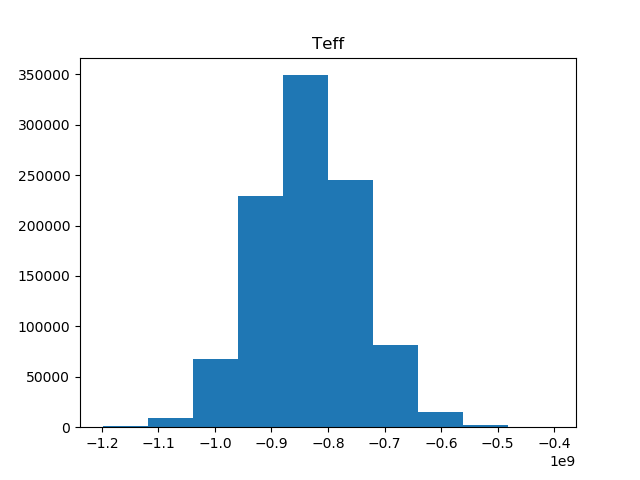
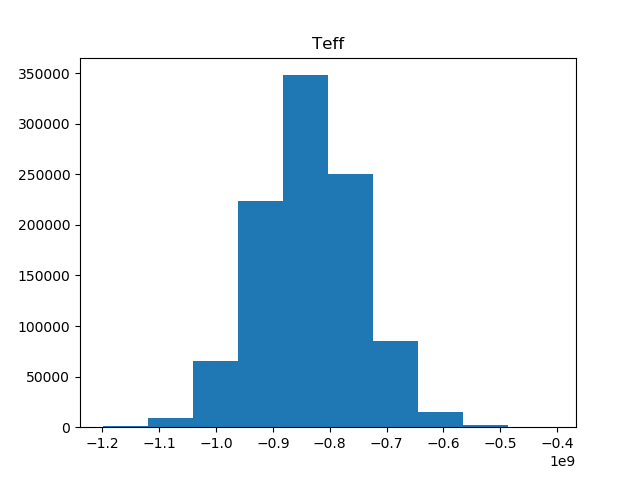
added code that fits for kSZ but I'm getting a nonzero bulk kSZ and zero tSZ

diff --git a/emceefitbulkkSZ.py b/emceefitbulkkSZ.py
@@ -86,12 +86,12 @@ def f_nu(nu):
 zavg = 0.36315244
 
 TCMB = 2.7255
-def yflux(fghz,Yin,Teff):
-    return TCMB*gfuncrel(fghz*1e9,Teff)*Yin
+def yflux(fghz,Yin):
+    return TCMB*f_nu(fghz)*Yin
 def dflux(fghz,Din):
     return bdust(fghz,zavg)*Din
-def Sflux(fghz,Yin,Din,Teff):
-    return yflux(fghz,Yin,Teff)+dflux(fghz,Din)+Yin * gfuncrel(fghz*1e9,Teff)
+def Sflux(fghz,Yin,Din,dT):
+    return yflux(fghz,Yin)+dflux(fghz,Din)+dT
 
 #from scipy.optimize import curve_fit
 def gfunc(freq,Tcmb=2.7255e6):
@@ -156,9 +156,9 @@ bnu = bdust(freqs,zavg)
 
 def lnlike(param,nu,S,yerr): 
     #sys.exit()
-    Y,D,Teff=param
+    Y,D,dT=param
     nu=np.asarray(nu)
-    model=yflux(nu,Y,Teff)+dflux(nu,D)+Y * gfuncrel(nu*1e9,Teff)
+    model=yflux(nu,Y)+dflux(nu,D)+dT#+Y * gfuncrel(nu*1e9,Teff)
     yerr=np.asarray(yerr)
     inv_sigma2 = 1.0/(yerr**2)
     #print(param,-0.5*(np.sum((S-model)**2*inv_sigma2 - np.log(inv_sigma2))))
@@ -166,8 +166,8 @@ def lnlike(param,nu,S,yerr):
 
 def lnprior(param):
     #sys.exit()
-    Y,D,Teff=param
-    if  1e-17 < Y < 1e-16 and  1e-19< D < 1.25e-17 and -1.2e9 < Teff <-4e8:# and -1e-16 < dT < 0:
+    Y,D,dT=param
+    if  -1e-15 < Y < 1e-15 and  1e-19< D < 1.25e-17 and -1e-14 < dT <1e-14:# and -1e-16 < dT < 0:
         return 0.0
     return -np.inf
 
@@ -179,7 +179,7 @@ def lnprob(param, nu, S, yerr):
 
 
 ndim, nwalkers = 3, 20
-guess=np.array([3.1150537441385675e-17,8.429739170700618e-18, -833828949.684])
+guess=np.array([5e-16,8e-18, 1e-20])
 pos = [guess*(1+0.1*np.random.uniform(-1,1,size=ndim)) for i in range(nwalkers)]
 #print(pos[0],pos[1])
 #sys.exit()
@@ -211,7 +211,7 @@ print(samples.shape)
 Y_samples=rawsamples[:,:,0]
 
 D_samples=rawsamples[:,:,1]
-Teff_samples=rawsamples[:,:,2]
+kSZ_samples=rawsamples[:,:,2]
 #dT_samples=rawsamples[:,:,2]
 #print(Y_samples)
 plt.hist(Y_samples.reshape(-1))
@@ -224,9 +224,9 @@ plt.title('D')
 plt.savefig('D mcmc values.png')
 plt.close()
 
-plt.hist(Teff_samples.reshape(-1))
-plt.title('Teff')
-plt.savefig('Teff mcmc values.png')
+plt.hist(kSZ_samples.reshape(-1))
+plt.title('kSZ')
+plt.savefig('kSZ mcmc values.png')
 # plt.hist(dT_samples)
 # plt.title('dT')
 # plt.savefig('dT mcmc values.png')
@@ -239,6 +239,7 @@ ymax=np.max(Y_samples)
 plt.ylim(ymin,ymax)
 plt.title('Y')
 plt.savefig('Y mcmc chain.png')
+plt.close()
 
 for i in range(nwalkers):
     plt.plot(D_samples[i,:])
@@ -248,14 +249,15 @@ ymax=np.max(D_samples)
 plt.ylim(ymin,ymax)
 plt.title('D')
 plt.savefig('D mcmc chain.png')
+plt.close()
 
 for i in range(nwalkers):
-    plt.plot(Teff_samples[i,:])
-ymin=np.min(Teff_samples)
-ymax=np.max(Teff_samples)
+    plt.plot(kSZ_samples[i,:])
+ymin=np.min(kSZ_samples)
+ymax=np.max(kSZ_samples)
 plt.ylim(ymin,ymax)
-plt.title('Teff')
-plt.savefig('Teff mcmc chain.png')
+plt.title('kSZeff')
+plt.savefig('kSZ mcmc chain.png')
 #Uncomment this area later
 
 # plt.plot(dT_samples)
@@ -273,13 +275,11 @@ plt.savefig('Teff mcmc chain.png')
 # plt.savefig('Teff mcmc values.png')
 
 #samples[:, 1] = np.exp(samples[:, 1])
-Y_mcmc, D_mcmc, Teff_mcmc= map(lambda v: (v[1], v[2]-v[1], v[1]-v[0]),
+Y_mcmc, D_mcmc, kSZ_mcmc= map(lambda v: (v[1], v[2]-v[1], v[1]-v[0]),
                              zip(*np.percentile(samples, [16, 50, 84],
                                                 axis=0)))
-print(Y_mcmc, D_mcmc,Teff_mcmc)
-print(Y_mcmc[0])
-print(D_mcmc[0])
-print(Teff_mcmc[0])
+print(Y_mcmc, D_mcmc,kSZ_mcmc)
+
 
 
 
@@ -318,28 +318,22 @@ print(Teff_mcmc[0])
 # print(yerrs)
 
 import corner
-fig = corner.corner(samples, labels=["$Y$", "$D$", "$Teff$"])#,
+fig = corner.corner(samples, labels=["$Y$", "$D$", "$kSZ$"])#,
                      #truths=[Y, D])
 #fig1 = corner.corner(sim_samples, labels=["$Y$", "$D$"],
                       #truths=[Y, D])
-fig.savefig("triangleTeff50000.png")
+fig.savefig("trianglekSZ50000.png")
 #fig1.savefig("simulatedtriangle50000.png")
 x = np.array([90,150,217,353,545,857])
 aperrs=np.array(aperrs)
 apmeans=np.array(apmeans)
-pl = io.Plotter(xlabel='$\\nu$ (GHz)',ylabel='F (K*arcmin$^2$)',yscale='log')
-pl.add(freqs,np.abs(yflux(freqs,Y_mcmc[0],Teff_mcmc[0])),label='Y')
-pl.add(freqs,dflux(freqs,D_mcmc[0]),label="D")
-#pl.add(freqs,np.abs(gfuncrel(freqs,Teff_mcmc[0])),label="Teff")
-pl.add(freqs,np.abs(Sflux(freqs,Y_mcmc[0],D_mcmc[0],Teff_mcmc[0])),label='Fit')
-pl.add_err(x,np.abs(apmeans),yerr=aperrs,marker="o",ls="none")
-pl.legend()
-pl.done(io.dout_dir+"apfluxes_Tefffitlog.png")
 
-pl = io.Plotter(xlabel='$\\nu$ (GHz)',ylabel='F (K*arcmin$^2$)',)
-pl.add(freqs,yflux(freqs,Y_mcmc[0],Teff_mcmc[0]),label='Y')
+pl = io.Plotter(xlabel='$\\nu$ (GHz)',ylabel='F (K*arcmin$^2$)',yscale='log')
+pl.add(freqs,np.abs(yflux(freqs,Y_mcmc[0])),label='Y')
 pl.add(freqs,dflux(freqs,D_mcmc[0]),label="D")
-pl.add(freqs,Sflux(freqs,Y_mcmc[0],D_mcmc[0],Teff_mcmc[0]),label='Fit')
+#pl.add(freqs,gfuncrel(freqs,T_mcmc[0]),label="Teff")
+pl.add(freqs,np.abs(Sflux(freqs,Y_mcmc[0],D_mcmc[0],kSZ_mcmc[0])),label='Fit')
 pl.add_err(x,np.abs(apmeans),yerr=aperrs,marker="o",ls="none")
 pl.legend()
-pl.done(io.dout_dir+"apfluxes_Tefffitlinear.png")
+pl.done(io.dout_dir+"apfluxes_kSZfitlog.png")
+
